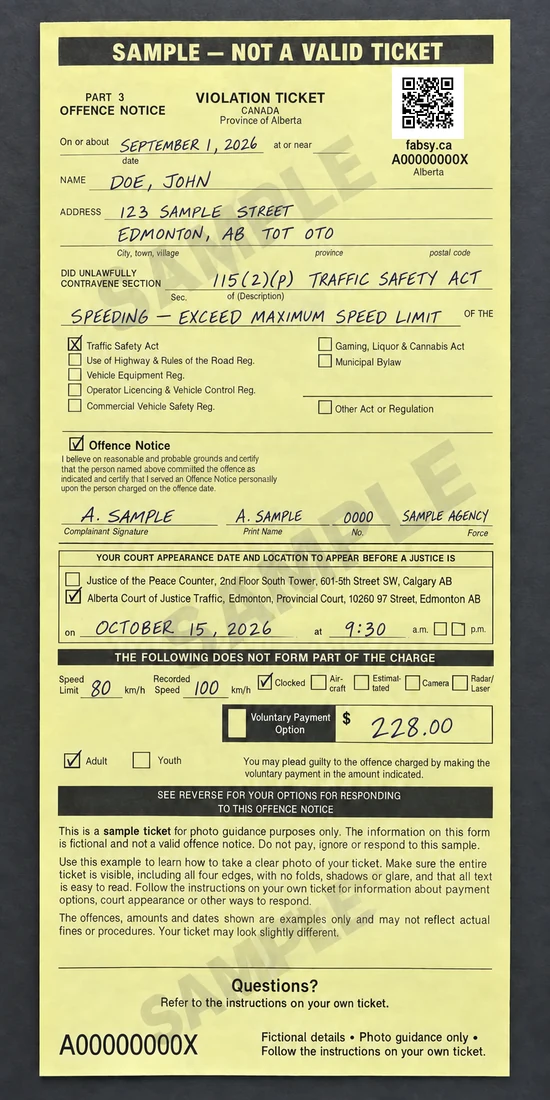
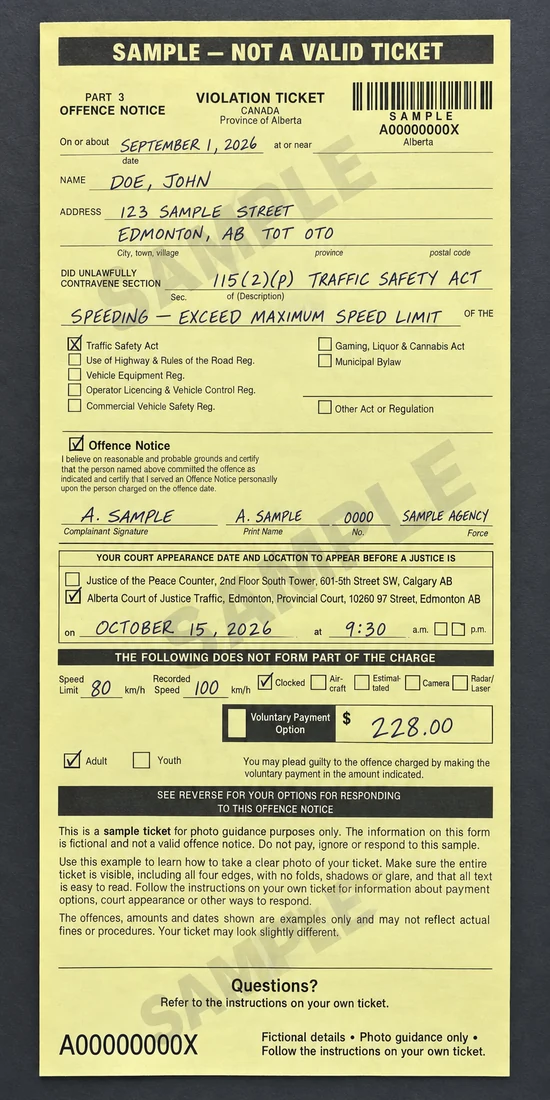
Keep the yellow ticket standard barcode without a QR code

diff --git a/specs/alberta-ticket-photo-examples/plan.md b/specs/alberta-ticket-photo-examples/plan.md
@@ -1,7 +1,7 @@
 # Alberta ticket photo examples
 
 ## Purpose and clarified request
-Replace the abstract photo-guide diagram with recognizable yellow paper and white printed Alberta violation-ticket samples. Use fictional John Doe details, a common speeding section and fine, and a scannable QR code linking to https://fabsy.ca in the barcode position. The user's later clean white image is the base for the white sample.
+Replace the abstract photo-guide diagram with recognizable yellow paper and white printed Alberta violation-ticket samples. Use fictional John Doe details, a common speeding section and fine, and a scannable QR code linking to https://fabsy.ca in the white ticket barcode position. The yellow ticket retains its standard sample barcode, following the user's final correction. The user's later clean white image is the base for the white sample.
 
 ## Implementation
 Preserve the short checklist and disclosure. Show two responsive figures with clear labels, descriptive alternatives and full-size image links. Reuse the guide across existing upload entry points. Use sample markings and substitute personal/ticket/officer details throughout. Do not publish customer reference images. No upload, OCR, consent, payment or notification changes.
@@ -16,12 +16,12 @@ Example data: Traffic Safety Act section 115(2)(p), 100 km/h in an 80 km/h zone,
 ## Tasks
 - [x] Generate yellow and white samples with the built-in image tool
 - [x] Replace diagram with two accessible, responsive figures
-- [x] Ensure both finished QR codes decode to https://fabsy.ca
+- [x] Ensure the white QR code decodes to https://fabsy.ca and the yellow sample has no QR code
 - [x] Verify upload regressions and desktop/mobile rendering, including larger-image links
 - [ ] Publish through the existing frontend workflow and verify live assets
 
 ## Generation prompts
-Mode: built-in image_gen. The QR source was encoded deterministically with OpenCV at high error correction; the source decoded correctly. The image model changed the QR modules, so finished-image decoding failed. The user explicitly authorized direct script placement of the verified QR codes. The final PNGs were composited with nearest-neighbour QR scaling and both decoded to https://fabsy.ca using OpenCV. Optimized WebP previews total approximately 310 KB; full-resolution PNGs are linked for enlargement.
+Mode: built-in image_gen. The QR source was encoded deterministically with OpenCV at high error correction; the source decoded correctly. The image model changed the QR modules, so finished-image decoding failed. The user explicitly authorized direct script placement of verified QR codes, then clarified that yellow tickets must have no QR; only the white sample receives the QR. The white PNG was composited with nearest-neighbour QR scaling and decoded to https://fabsy.ca using OpenCV. The yellow PNG uses the original generated standard-barcode version; no QR is detected. Optimized WebP previews total approximately 310 KB; full-resolution PNGs are linked for enlargement.
 
 ### yellowTicketGen
 
@@ -29,10 +29,6 @@ Use case: scientific-educational. Create a high-resolution, realistic Alberta vi
 ALL personal and ticket-specific details must be fictional and replaced everywhere. No original ticket number, name, address, officer, badge, date, signature, barcode or QR data may survive. Exact example data: name "DOE, JOHN"; address "123 SAMPLE STREET, EDMONTON, AB T0T 0T0"; offence date "SEPTEMBER 1, 2026"; offence "SPEEDING — EXCEED MAXIMUM SPEED LIMIT"; section "115(2)(p)" of "TRAFFIC SAFETY ACT"; posted speed "80 km/h"; ticketed speed "100 km/h"; location "EXAMPLE ROAD, EDMONTON, AB"; issuing officer "A. SAMPLE"; badge "0000"; agency "SAMPLE AGENCY"; response deadline "OCTOBER 15, 2026 — 9:30 A.M."; court "ALBERTA COURT OF JUSTICE TRAFFIC, EDMONTON"; fine / voluntary payment amount "$228.00". All these values must be sharp, accurate and legible.
 A clear visible top banner must say "SAMPLE — NOT A VALID TICKET" and footer must say "Fictional details • Photo guidance only • Follow the instructions on your own ticket." Use a subtle diagonal SAMPLE watermark that does not obscure the important fields. Replace barcode with decorative bars labelled SAMPLE; do not reproduce scannable barcode or QR codes. No advertising, promotional marks, crossed-out fines, logos invented from the reference, or Fabsy phone number. Preserve actual ticket structure and print density, but any small-print explanatory area can say it is a photo-guidance sample instead of giving detailed legal or payment advice. This is an instructional fictional prop, never a valid document.
 Variant: YELLOW PAPER TICKET. Tall narrow pale warm yellow paper in the exact form style of the reference, approximately 1024 by 2048 pixel output. Keep the top-left "PART 3 / OFFENCE NOTICE", centered "VIOLATION TICKET / CANADA / Province of Alberta", top-right decorative sample barcode with ticket number "A00000000X". Use clear, dark, neat handwritten entries for the example name, address, dates, speeding section, speed and fine, with crisp printed form labels. Top personal-details rows, section and Traffic Safety Act checkbox, offence notice block, lower offence details and response deadline/court box, speed and prominent voluntary-payment fine box near lower portion, followed by response options areas, all in recognizable Alberta yellow-ticket arrangement. Repeat "A00000000X" only where the ticket ID appears again at the bottom. Show every edge and the entire bottom section. The yellow color must clearly distinguish this from a white printed ticket.
-
-### yellowTicketQR
-
-Edit target: image 1 is the finished yellow Alberta ticket SAMPLE. Supporting insert: image 2 is an EXACT real QR code encoding https://fabsy.ca. Replace the linear barcode in the TOP RIGHT of the yellow sample with this exact QR code. Preserve the QR module pattern pixel-for-pixel and preserve its white square quiet zone; composite the supplied QR, DO NOT redraw or invent a QR pattern. It must be functional when scanned. Give it sufficient space in the header, approximately 140 pixels square at this image's current size; keep all nearby text clear, minimally adjust the top-right header spacing if needed. Under the QR write "fabsy.ca" and retain the fictional ticket number "A00000000X" nearby. The QR must link to Fabsy, not payment. Keep all other document content, fake John Doe details, 115(2)(p), 80/100 km/h, $228.00, sample watermark, pale yellow color, sharp legibility, paper edges and dark backdrop unchanged. This is still explicitly SAMPLE — NOT A VALID TICKET. No real customer data.
 
 ### whiteTicketQR
 
